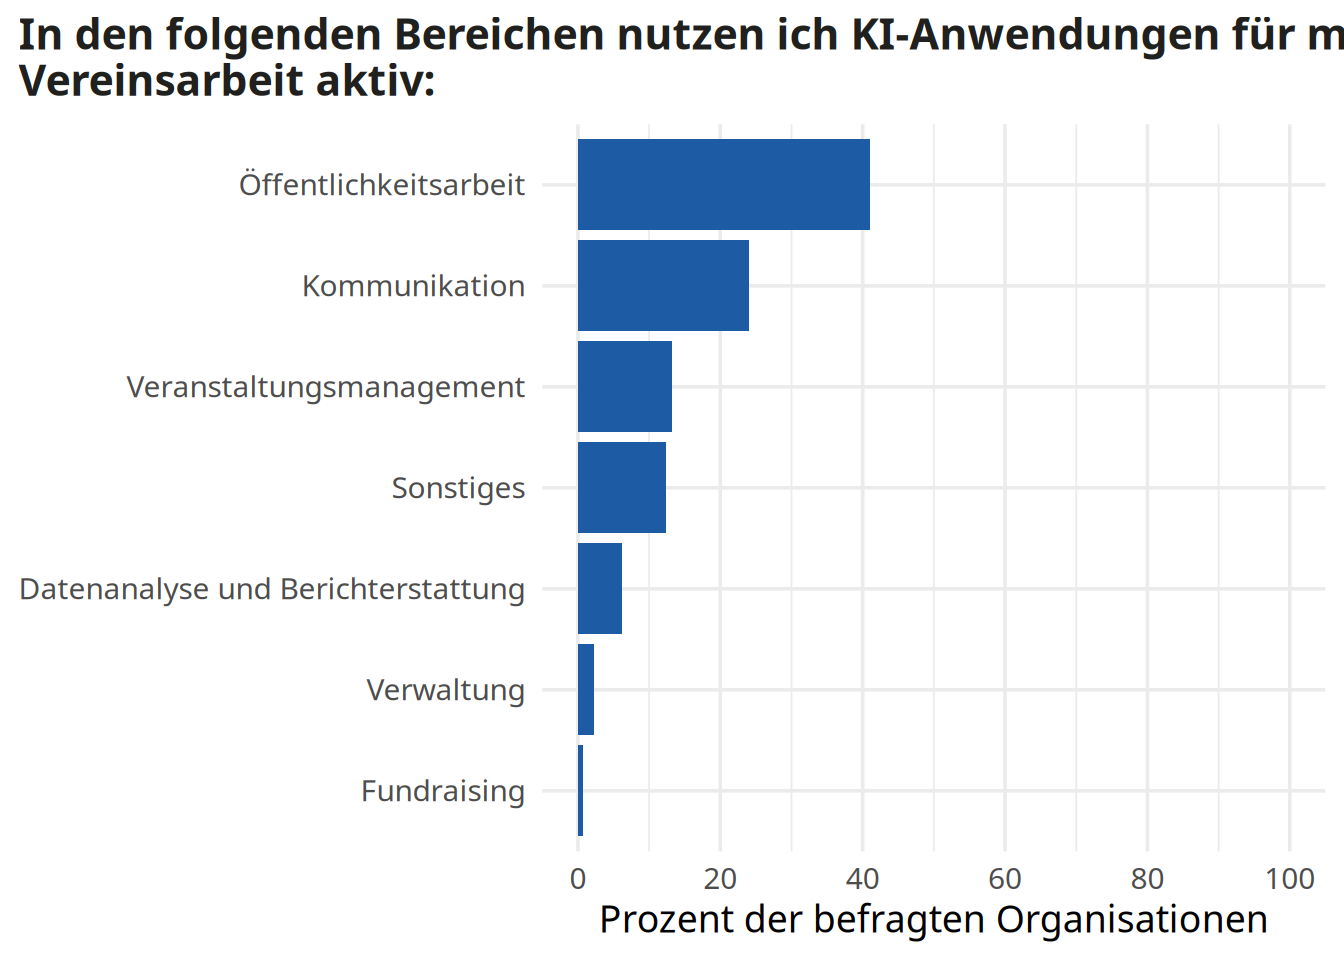
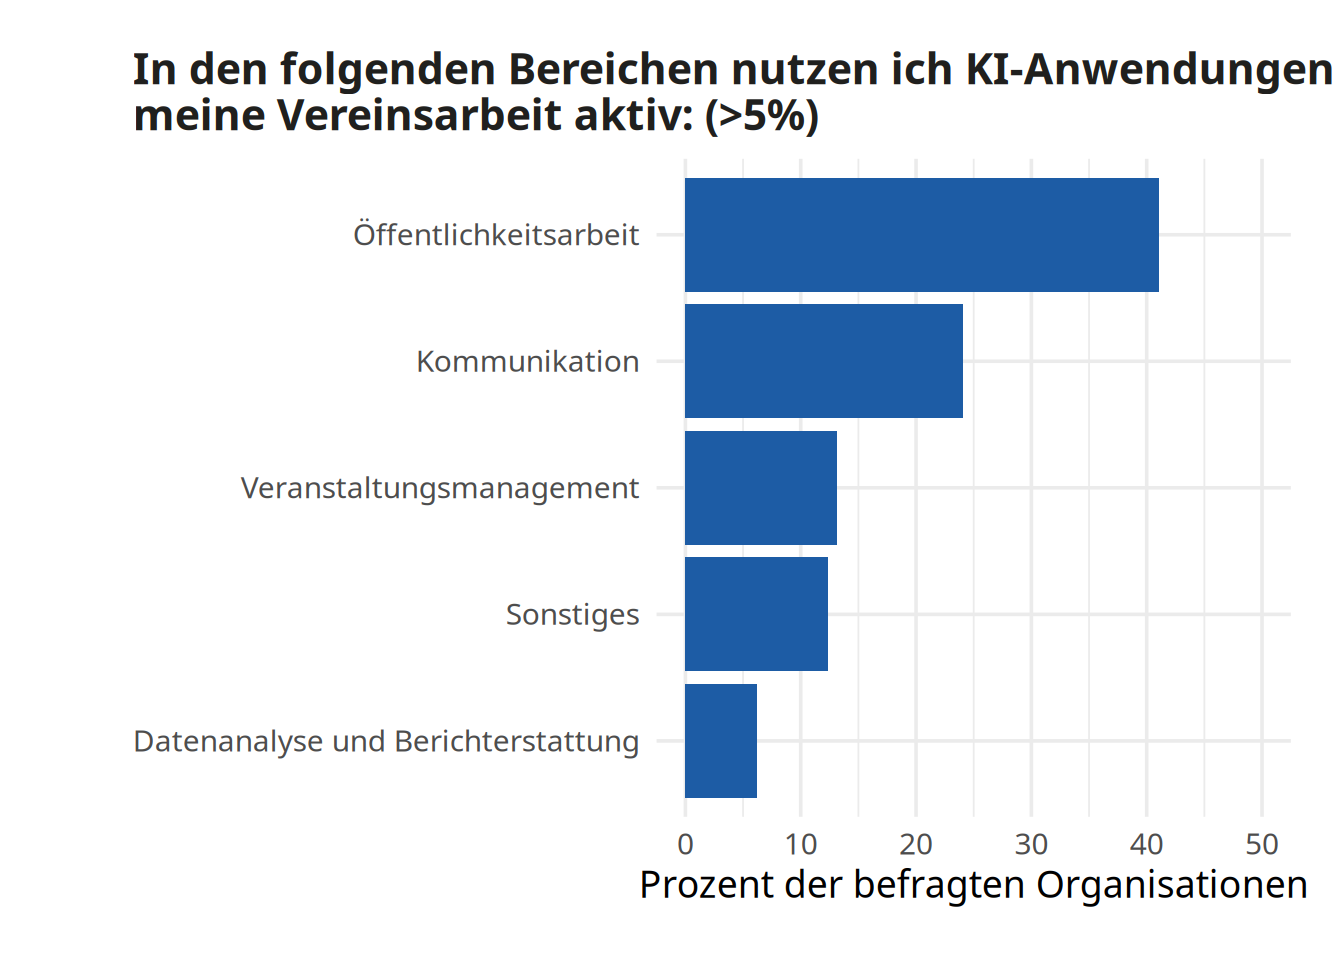
add open question summary

Changed region(s): [[0.0, 0.0, 1.0, 0.875], [0.4375, 0.875, 1.0, 1.0], [0.4062, 0.9062, 0.4375, 0.9375]]

diff --git a/dv_ai_survey.html b/dv_ai_survey.html
@@ -156,7 +156,7 @@ Figure&nbsp;3
 </section>
 <section id="was-ermöglicht-ki" class="level2">
 <h2 class="anchored" data-anchor-id="was-ermöglicht-ki">Was ermöglicht KI?</h2>
-<p>Gefragt danach, was KI in der Vereinsarbeit ermöglicht, so herrscht ebenfalls Uneinigkeit, wobei die mehr befragte angeben, dass KI Zeitersparniss, Effizienzsteigerung und Professionalisierung ermöglicht. Bessere Kommunikation und Erreichbarkeit für Mitglieder scheint, sowie vor allem Transparenz scheint KI in der Vereinsarbeit laut den Befragten nicht zu ermöglichen.</p>
+<p>Gefragt danach, was KI in der Vereinsarbeit ermöglicht, so herrscht ebenfalls Uneinigkeit, wobei die mehr Befragte angeben, dass KI Zeitersparniss, Effizienzsteigerung und Professionalisierung ermöglicht. Bessere Kommunikation und Erreichbarkeit für Mitglieder scheint, sowie vor allem Transparenz scheint KI in der Vereinsarbeit laut den Befragten nicht zu ermöglichen.</p>
 <div class="cell">
 <div class="cell-output-display">
 <div id="fig-Q8" class="quarto-float quarto-figure quarto-figure-center anchored" width="672">
@@ -175,7 +175,7 @@ Figure&nbsp;4
 </section>
 <section id="anwendungen-von-ki" class="level1">
 <h1>Anwendungen von KI</h1>
-<p>KI wird von den Befragten</p>
+<p>Die meisten Befragten gaben an, KI für die Öffentlichkeitsarbeit zu nutzen, gefolgt von Kommunikation.</p>
 <div class="cell">
 <div class="cell-output-display">
 <div id="fig-Q4" class="quarto-float quarto-figure quarto-figure-center anchored" width="672">
@@ -190,6 +190,18 @@ Figure&nbsp;5
 </div>
 </div>
 </div>
+<p>Die Spezifizierungen der Antwortmöglichkeit “Sonstiges” lassen sich wie folgt zusammenfassen:</p>
+<div class="cell">
+<div class="cell-output cell-output-stdout">
+<pre><code>Die Teilnehmer nutzen KI-Anwendungen für die Erstellung von visuellen Inhalten,
+wie z.B. Bilder und Grafiken, sowie für die Erstellung von Texten, wie z.B.
+Pressemitteilungen, Projektskizzen und Grußworte. Sie nutzen KI auch für die
+Programmierung von Webseiten, die Erstellung von Artikeln und die Unterstützung
+bei der Recherche. Zudem nutzen einige die KI für die Erstellung von Konzepten,
+die Unterstützung bei Onboarding-Prozessen und die Erstellung von
+Prozess-Beschreibungen.</code></pre>
+</div>
+</div>
 </section>
 <section id="herausforderungen" class="level1">
 <h1>Herausforderungen</h1>
@@ -202,7 +214,7 @@ Figure&nbsp;5
 <div class="cell-output-display">
 <div>
 <figure class="figure">
-<p><img src="dv_ai_survey_files/figure-html/unnamed-chunk-8-1.png" class="img-fluid figure-img" width="672"></p>
+<p><img src="dv_ai_survey_files/figure-html/unnamed-chunk-9-1.png" class="img-fluid figure-img" width="672"></p>
 </figure>
 </div>
 </div>
@@ -215,7 +227,7 @@ the `.groups` argument.</code></pre>
 <div class="cell-output-display">
 <div>
 <figure class="figure">
-<p><img src="dv_ai_survey_files/figure-html/unnamed-chunk-9-1.png" class="img-fluid figure-img" width="672"></p>
+<p><img src="dv_ai_survey_files/figure-html/unnamed-chunk-10-1.png" class="img-fluid figure-img" width="672"></p>
 </figure>
 </div>
 </div>
